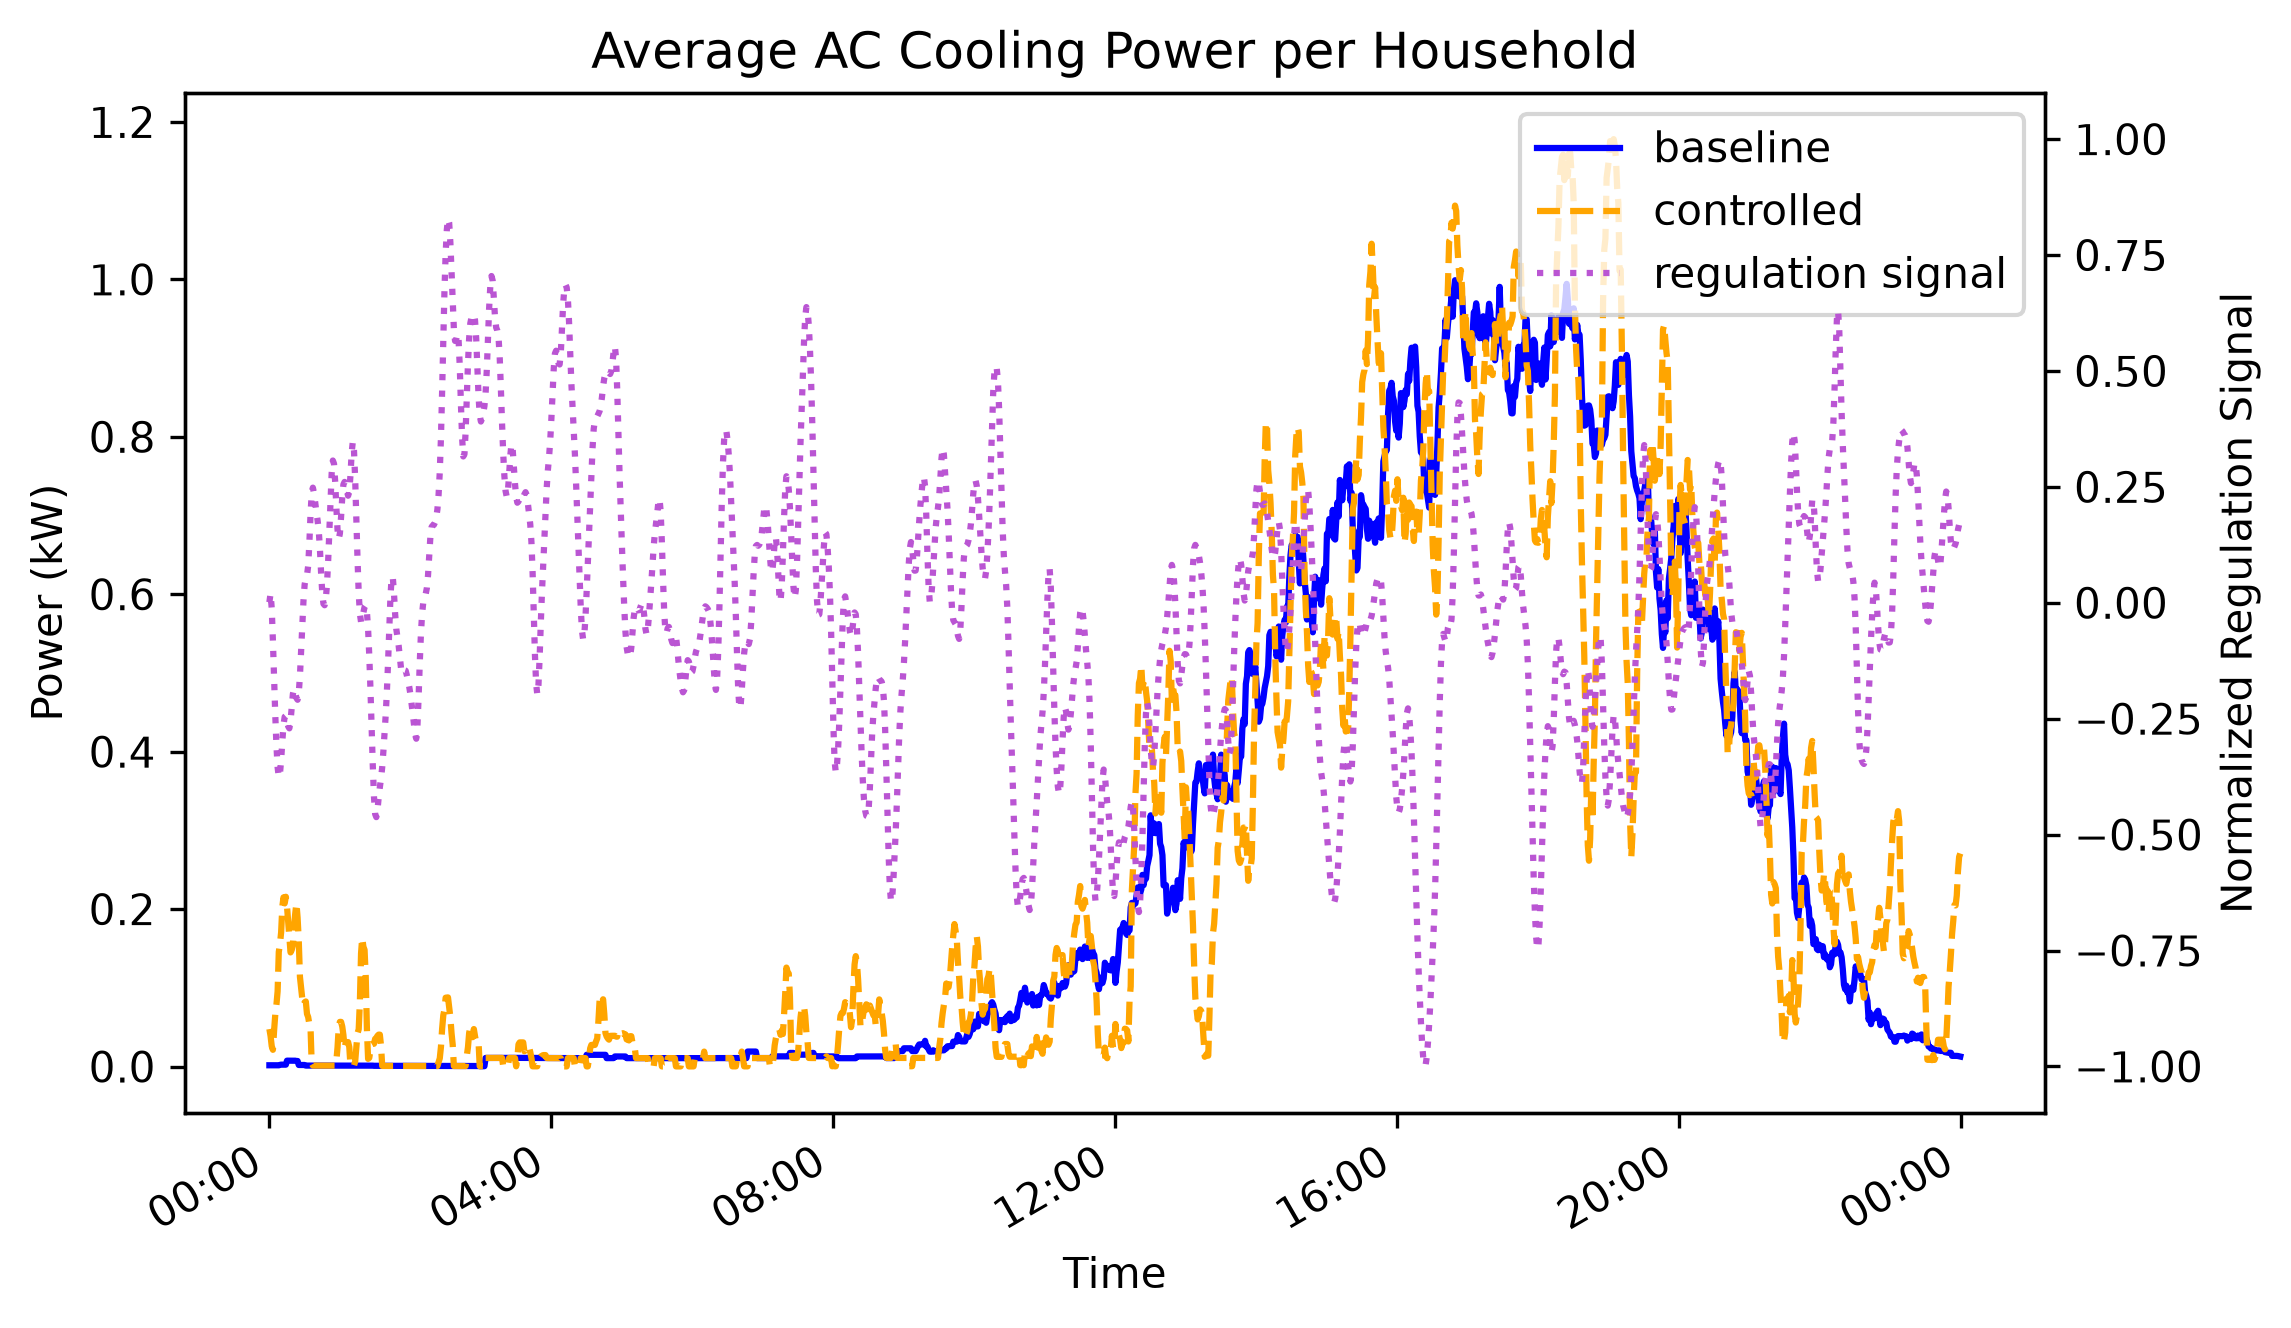
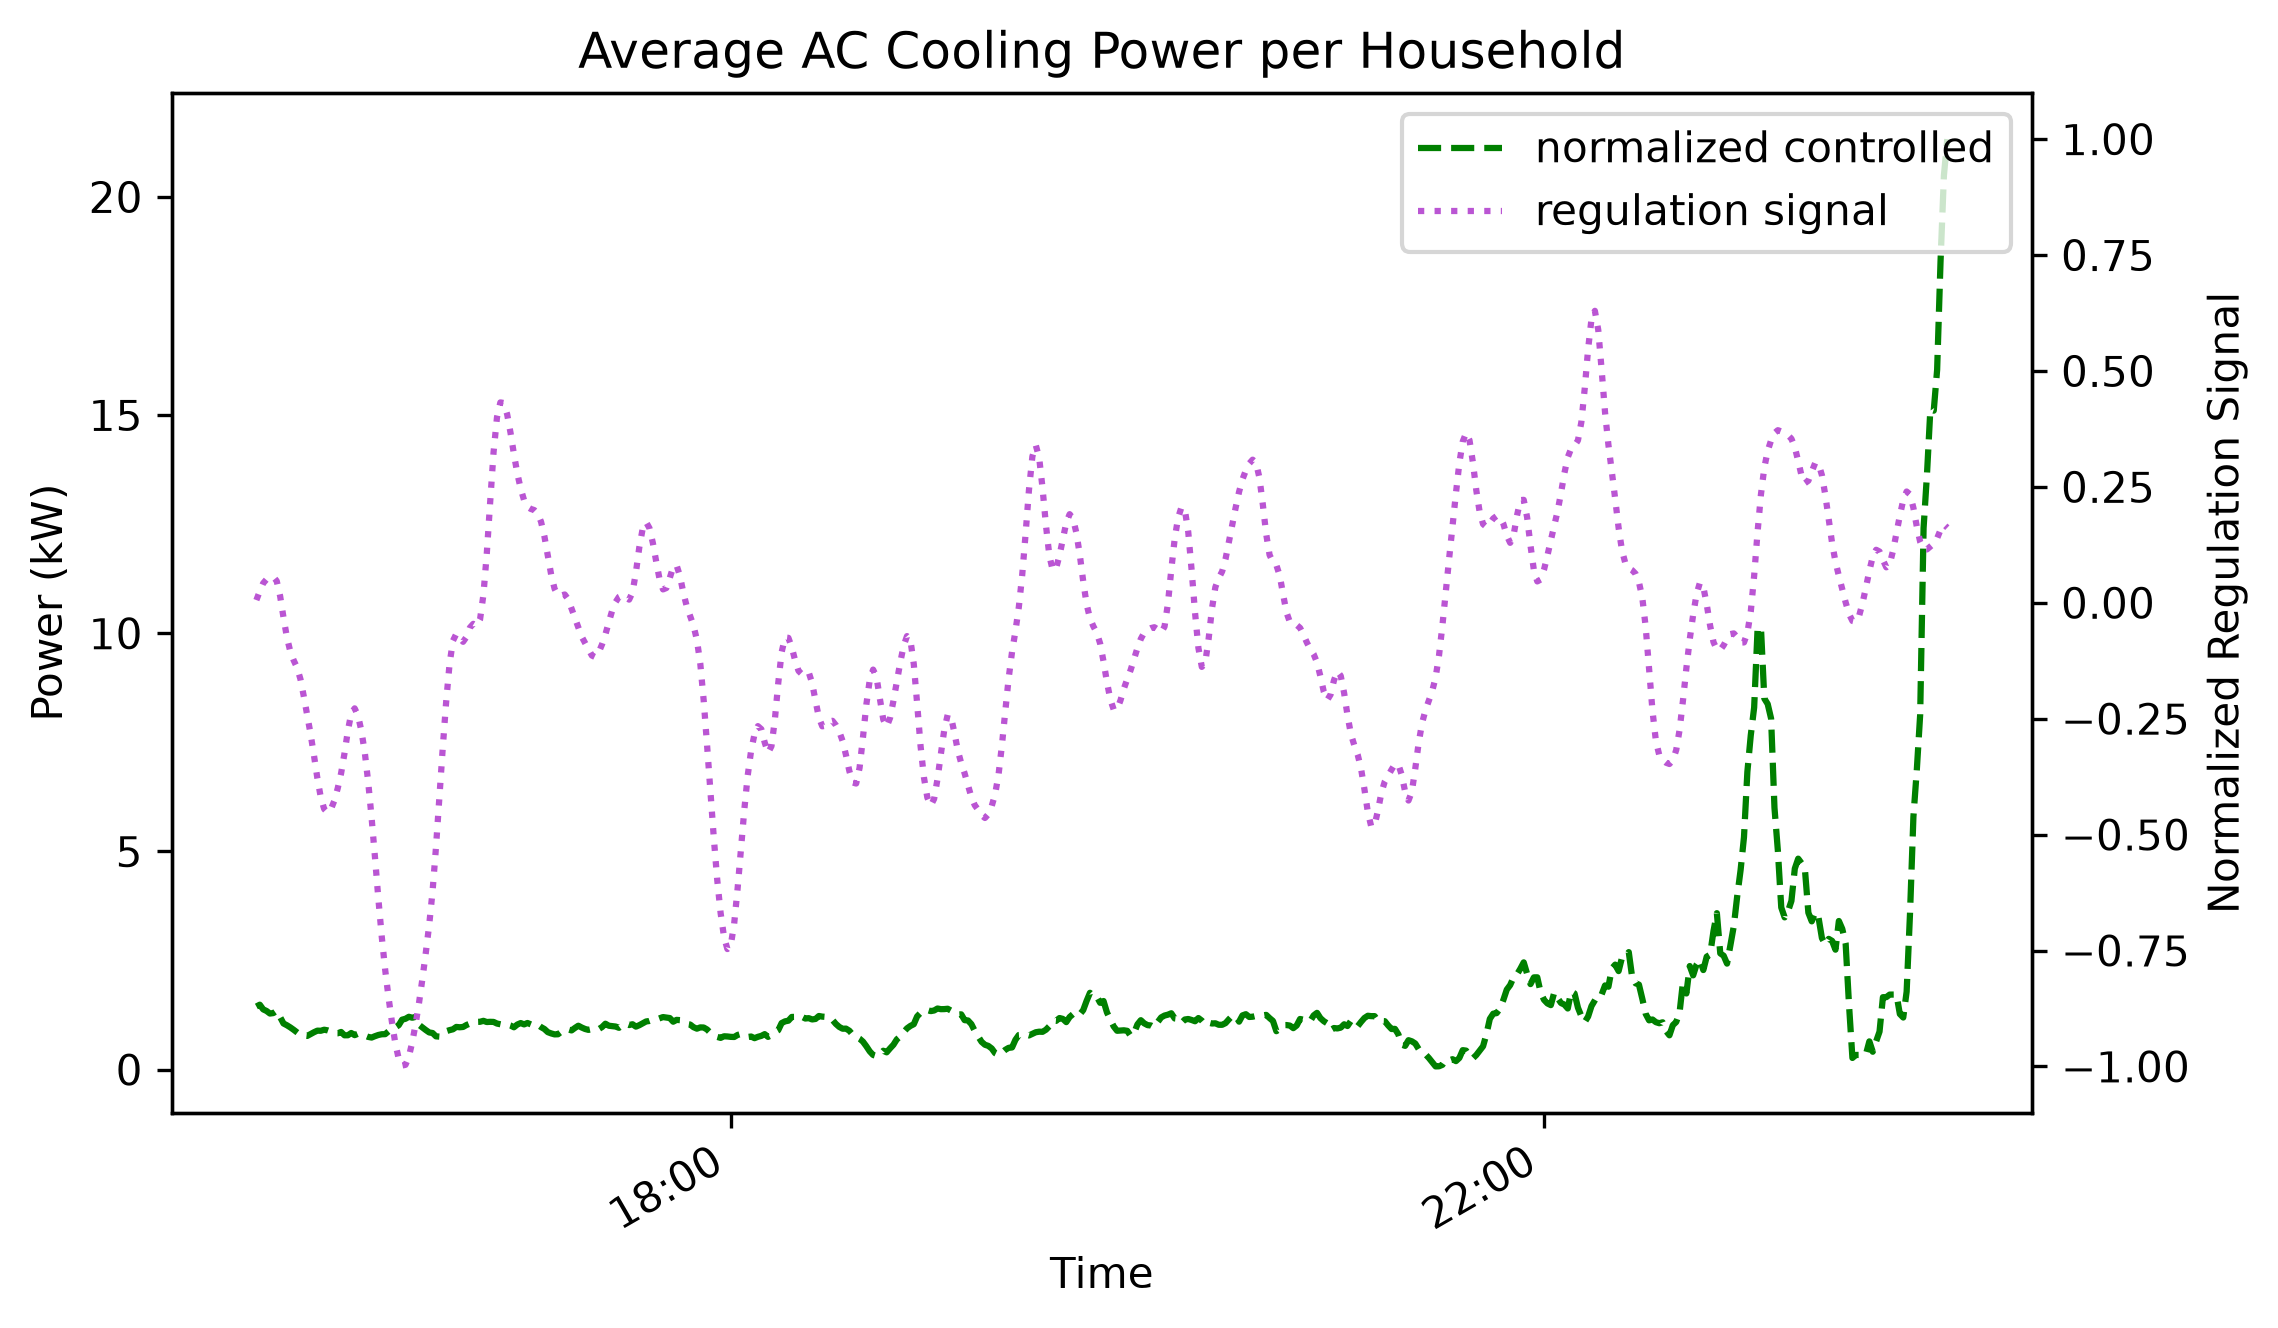
plots

diff --git a/OCHRE/OCHRE Regulation/AC/AC_C3_Plot_norm_pwr.py b/OCHRE/OCHRE Regulation/AC/AC_C3_Plot_norm_pwr.py
@@ -84,7 +84,7 @@ def main():
         label="controlled - baseline AC power",
         color="green",
     )
-    ax.axhline(1.0, color="black", linewidth=1, alpha=0.6, label="baseline ratio")
+    # ax.axhline(1.0, color="black", linewidth=1, alpha=0.6, label="baseline ratio")
     ax.set_title("Normalized Average AC Cooling Power per Household")
     ax.set_xlabel("Time")
     ax.set_ylabel("Controlled - Baseline AC Power")
